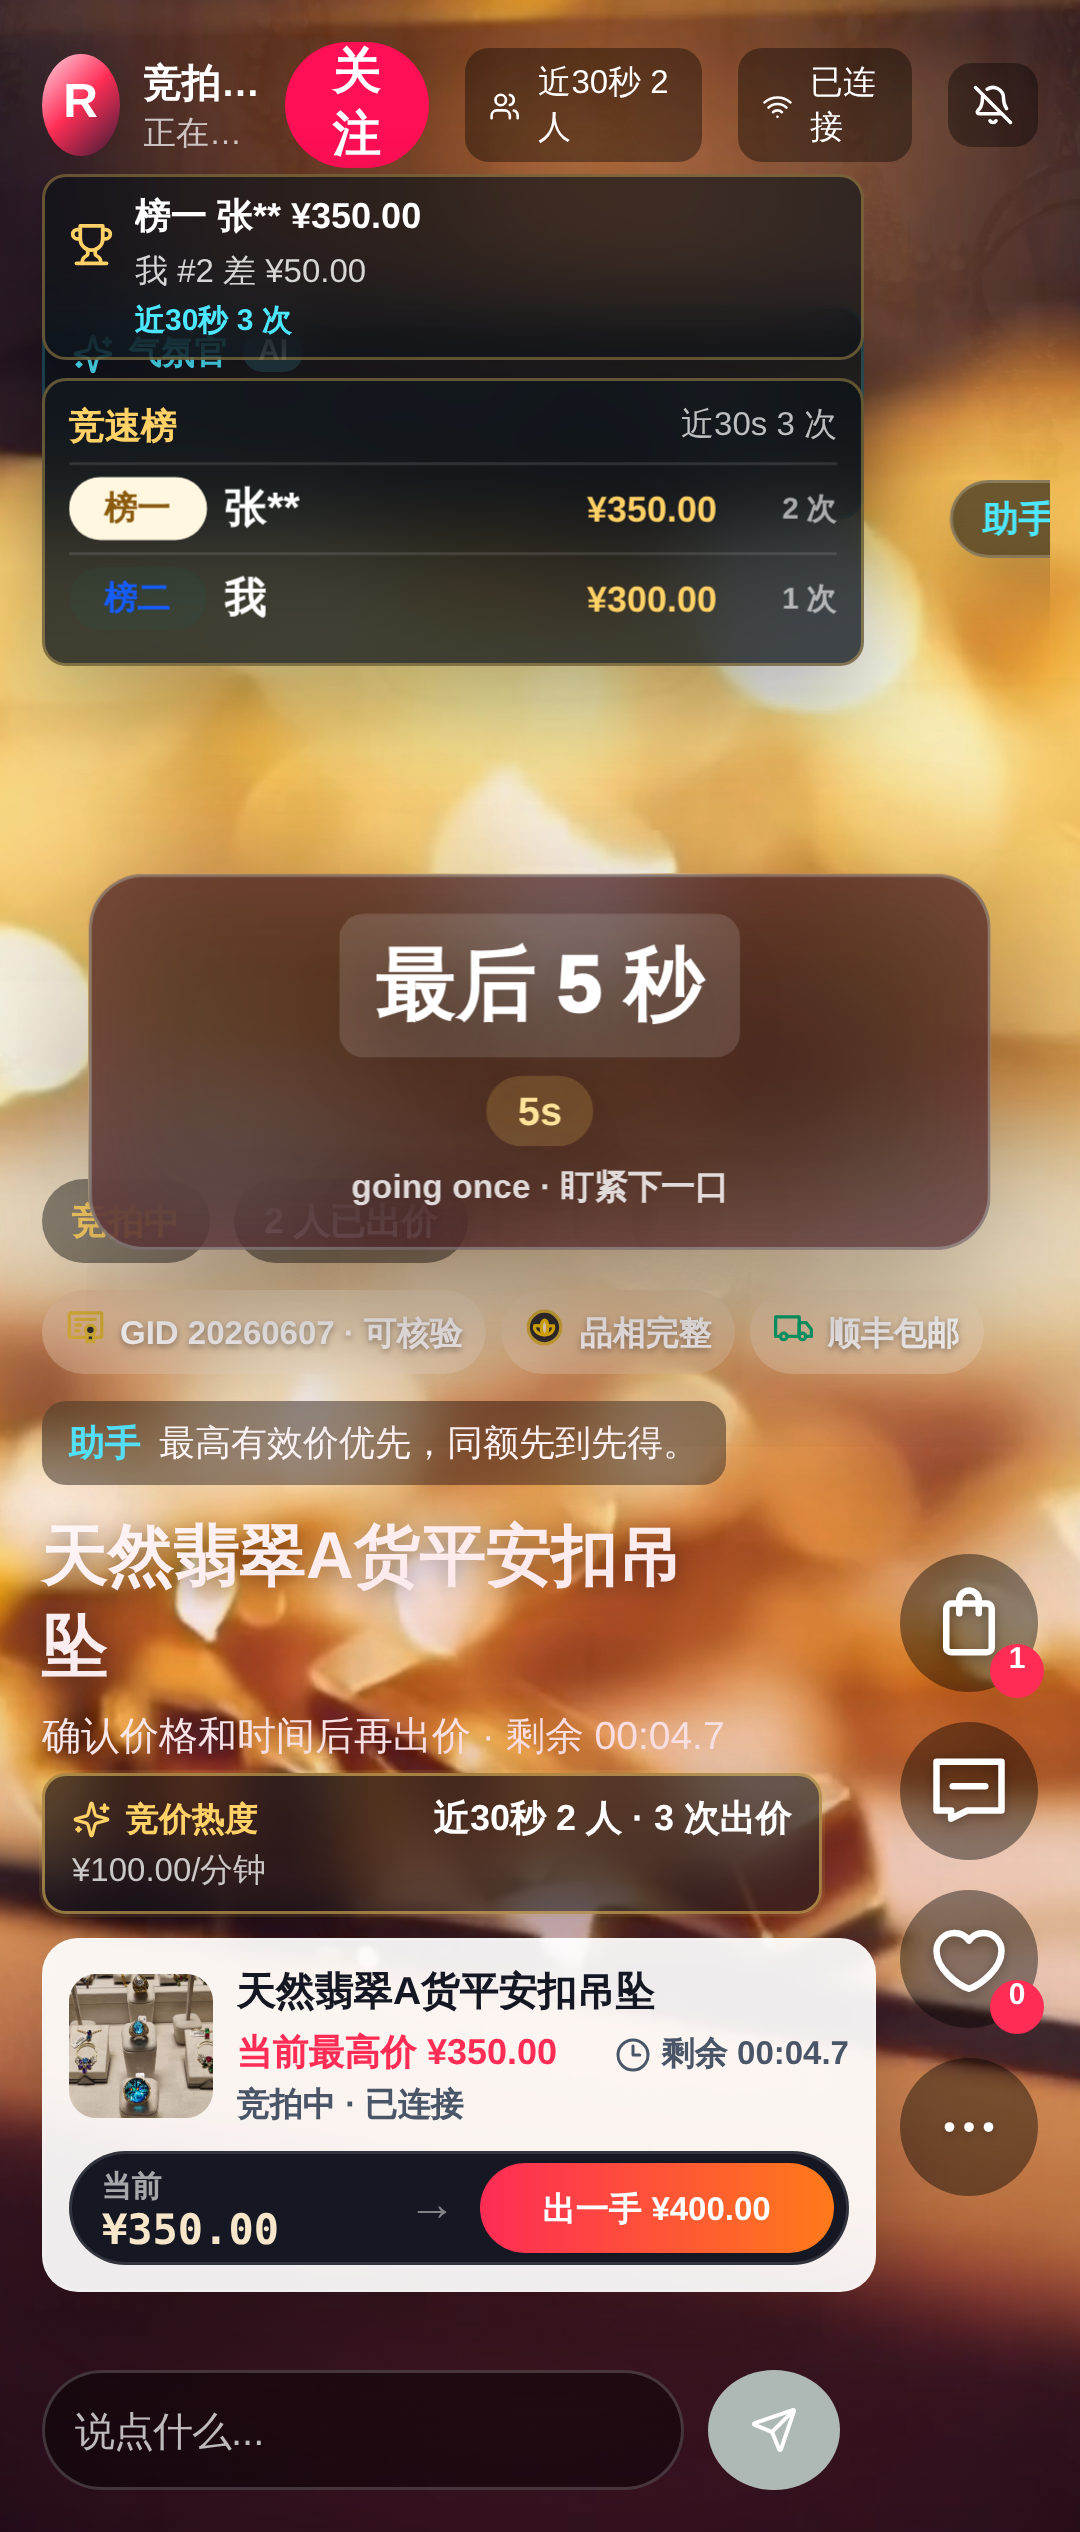
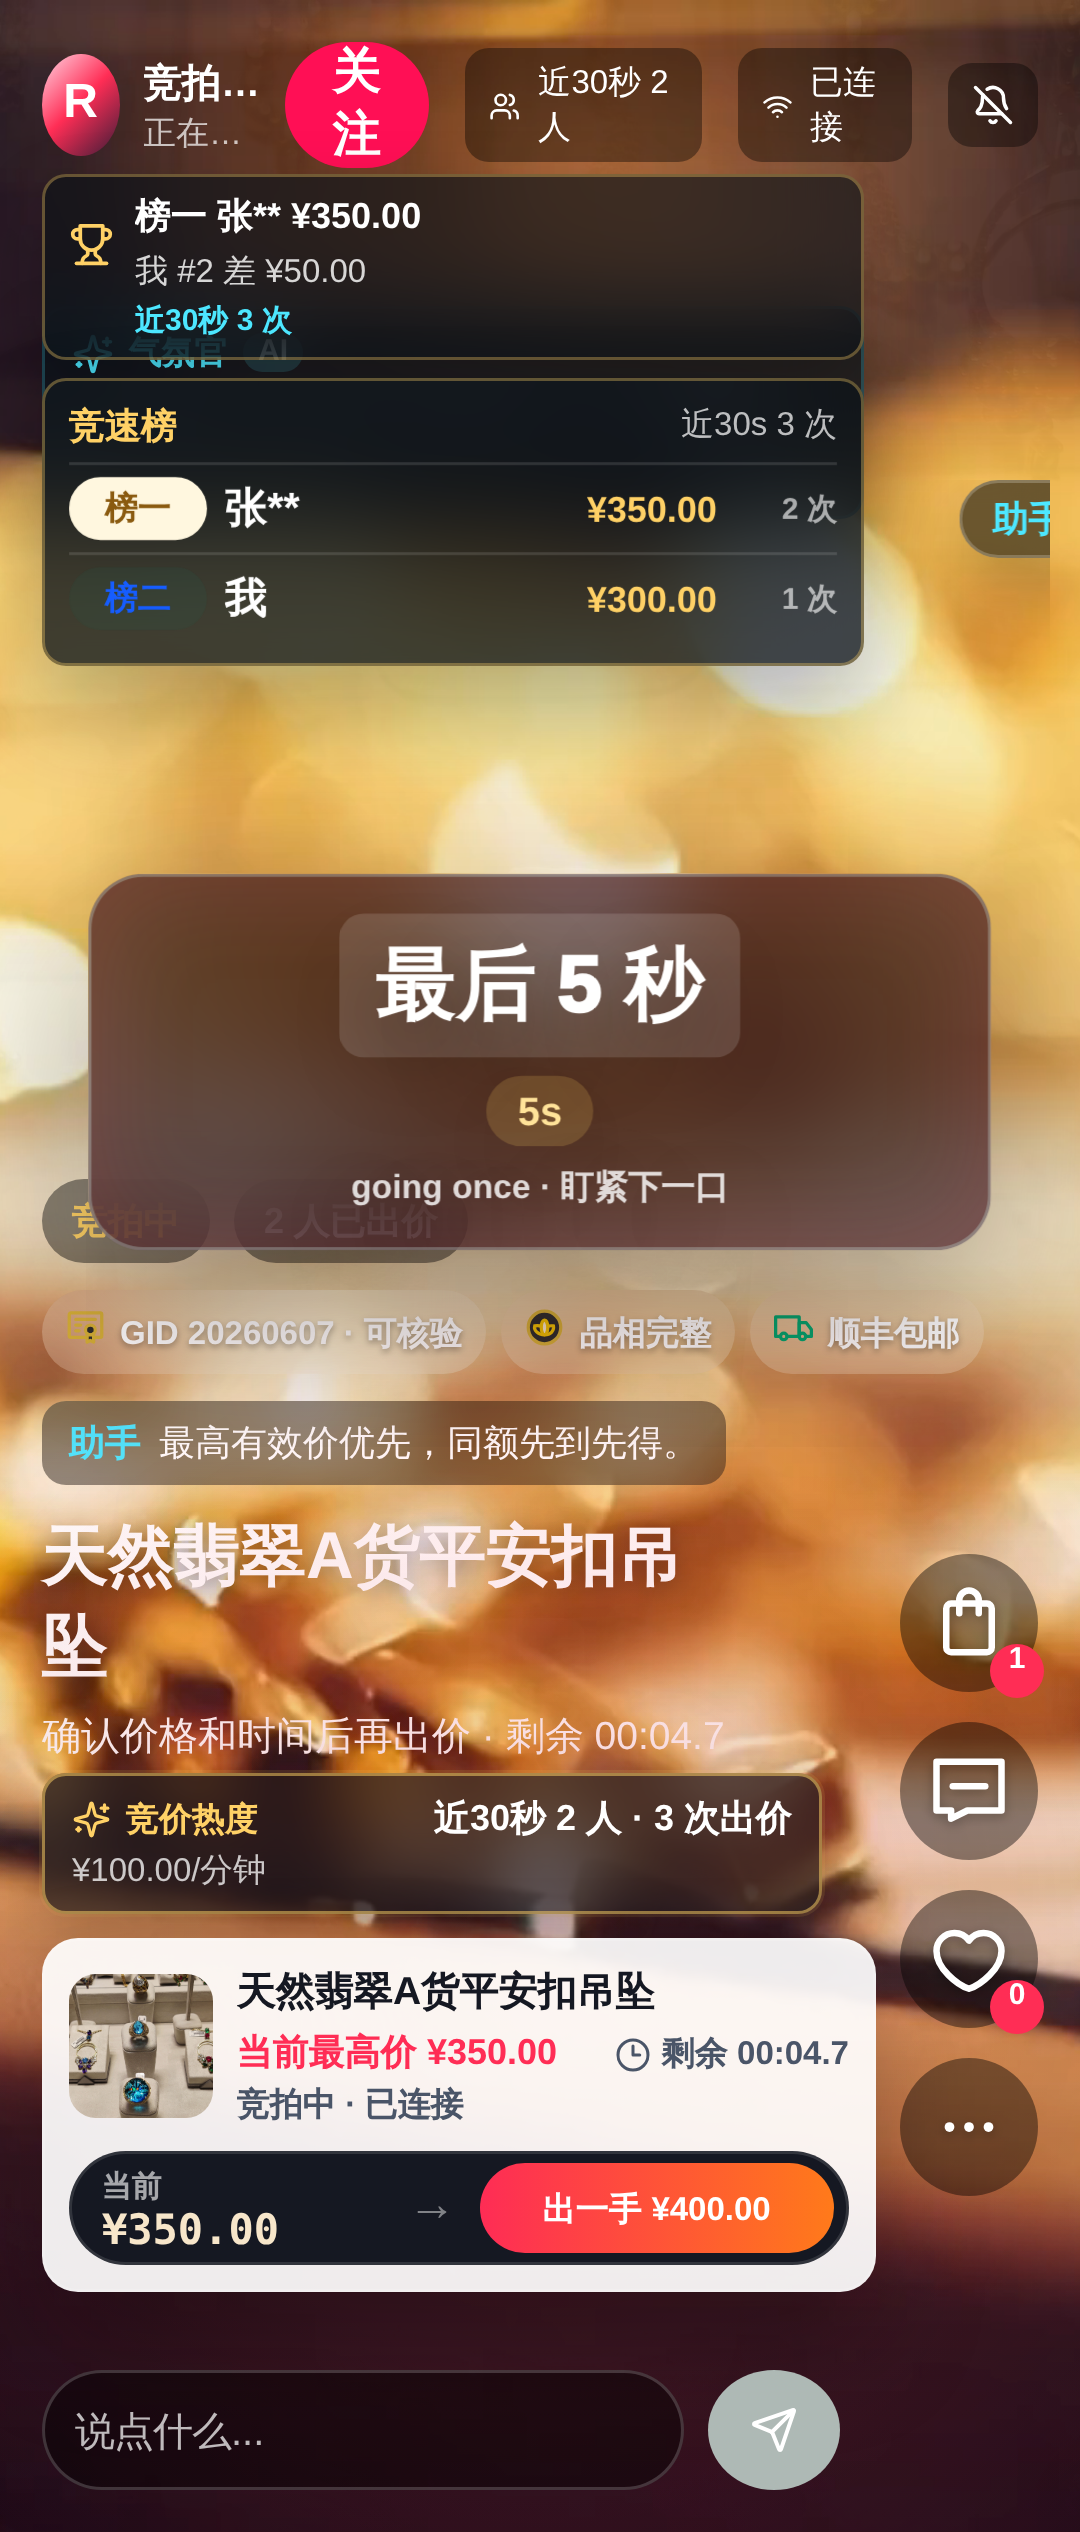
feat(h5): add winner climax result card

diff --git a/frontend/mobile-h5/src/components.tsx b/frontend/mobile-h5/src/components.tsx
@@ -662,6 +662,7 @@ export function AuctionStatePanel({
   countdownCopy,
   currentPriceCents,
   extensionNotice,
+  heat,
   item,
   leaderboard,
   minimumNextBidCents,
@@ -690,6 +691,7 @@ export function AuctionStatePanel({
   countdownCopy: string;
   currentPriceCents: number;
   extensionNotice: string;
+  heat: HeatSnapshot;
   item: AuctionItem;
   leaderboard: LeaderboardPayload | null;
   minimumNextBidCents: number;
@@ -736,8 +738,20 @@ export function AuctionStatePanel({
       ? '当前领先'
       : scenario.feedback;
   const rankAction = leaderboardActionCopy(leaderboard, nextBidCents);
+  const resultRankAction = scenario.sold
+    ? {
+      headline: scenario.winner ? '已中拍 · 订单待支付' : '本场已落槌',
+      action: scenario.winner ? '确认成交事实再支付' : '查看出价记录',
+      freshness: '结果以服务端终态为准'
+    }
+    : rankAction;
   const mediaURL = item.video_poster_url ?? item.videoPosterURL ?? item.image_url ?? item.imageURL ?? '';
   const bidHint = (() => {
+    if (scenario.sold) {
+      return scenario.winner
+        ? `成交价 ${scenario.price} · 订单以服务端为准`
+        : '本场已落槌，出价入口已关闭';
+    }
     if (scenario.title === '需完成验证') return scenario.feedback;
     if (scenario.ctaDisabled && !scenario.sold && scenario.leader.includes('你')) return h5Copy.selfLeading;
     if (unsafeAction && !scenario.sold) return h5Copy.confirmingPrice;
@@ -823,9 +837,9 @@ export function AuctionStatePanel({
         <strong>{rankCopy} · {gapCopy}</strong>
       </div>
       <div className="rank-strip" data-testid="rank-strip">
-        <span>{rankAction.headline}</span>
-        <strong>{rankAction.action}</strong>
-        <em>{rankAction.freshness}</em>
+        <span>{resultRankAction.headline}</span>
+        <strong>{resultRankAction.action}</strong>
+        <em>{resultRankAction.freshness}</em>
       </div>
       <div className="signal-row">
         {scenario.stale || connectionPhase === 'disconnected' ? <WifiOff size={16} /> : <Wifi size={16} />}
@@ -842,7 +856,7 @@ export function AuctionStatePanel({
       ) : null}
       <ResultSheet
         activeSheet={null}
-        heat={undefined}
+        heat={heat}
         item={item}
         kind={resultSheetKind}
         nextAuction={nextAuction}

diff --git a/frontend/mobile-h5/src/styles.css b/frontend/mobile-h5/src/styles.css
@@ -2368,6 +2368,7 @@ button {
 }
 
 .result-sheet.is-compact .result-actions {
+  grid-column: 1 / -1;
   grid-template-columns: minmax(0, 1fr) minmax(0, 1fr);
 }
 
@@ -2601,6 +2602,54 @@ button {
 .result-recap-actions b {
   color: rgba(255, 255, 255, .78);
   font-size: 12px;
+}
+
+.result-climax-card {
+  border: 1px solid rgba(255, 209, 102, .34);
+  border-radius: 14px;
+  padding: 12px;
+  background:
+    radial-gradient(circle at 18% 12%, rgba(255, 209, 102, .28), transparent 34%),
+    rgba(28, 22, 14, .56);
+  box-shadow: inset 0 0 28px rgba(255, 209, 102, .12);
+  display: grid;
+  gap: 4px;
+  text-align: center;
+}
+
+.result-climax-card span,
+.result-climax-card em {
+  color: rgba(255, 255, 255, .74);
+  font-size: 11px;
+  font-style: normal;
+  font-weight: 900;
+}
+
+.result-climax-card strong {
+  color: #ffe39a;
+  font-family: var(--font-auction-tabular);
+  font-size: 28px;
+  line-height: 1.1;
+}
+
+.result-climax-card p {
+  margin: 0;
+  color: rgba(255, 255, 255, .88);
+  font-size: 12px;
+}
+
+.result-sheet.is-compact .result-climax-card {
+  grid-column: 1 / -1;
+  border-color: rgba(212, 149, 34, .28);
+  background: #fff8e6;
+  box-shadow: none;
+}
+
+.result-sheet.is-compact .result-climax-card strong,
+.result-sheet.is-compact .result-climax-card p,
+.result-sheet.is-compact .result-climax-card span,
+.result-sheet.is-compact .result-climax-card em {
+  color: #7f4f05;
 }
 
 .result-sheet.is-compact .result-recap-actions button {

diff --git a/tests/e2e/mobile-h5.spec.ts b/tests/e2e/mobile-h5.spec.ts
@@ -1242,6 +1242,16 @@ test('H5 winner result sheet locks order and shares the single payment path', as
   await expect(sheet.getByText('成交价 ¥600.00')).toBeVisible();
   await expect(sheet.getByText(/订单 JP\d{8}-PENDING 已锁定/)).toBeVisible();
   await expect(sheet.getByText('保证金会随订单状态处理')).toBeVisible();
+  await expect(sheet.getByTestId('result-climax-card')).toContainText('落槌高光');
+  await expect(sheet.getByTestId('result-climax-card')).toContainText('¥600.00');
+  await expect(sheet.getByTestId('result-climax-card')).toContainText('2 人有效出价');
+  await expect(sheet.getByTestId('result-climax-card')).toContainText('3 次真实出价');
+  await expect(sheet.getByTestId('result-climax-card')).toContainText('先确认成交事实再进入支付');
+  await expect(page.getByTestId('rank-strip')).toContainText('已中拍 · 订单待支付');
+  await expect(page.getByTestId('rank-strip')).toContainText('确认成交事实再支付');
+  await expect(page.getByTestId('bid-hint')).toContainText('成交价 ¥600.00 · 订单以服务端为准');
+  await expect(page.getByTestId('rank-strip')).not.toContainText('下一口');
+  await expect(page.getByTestId('bid-hint')).not.toContainText('最低有效出价');
   await expect(page.getByTestId('bid-cta')).toHaveCount(1);
   await sheet.getByLabel('copy-result-recap').click();
   await expect(sheet.getByText('已复制')).toBeVisible();

diff --git a/frontend/mobile-h5/src/result.tsx b/frontend/mobile-h5/src/result.tsx
@@ -327,6 +327,14 @@ export function ResultSheet({
           </div>
         </div>
       ) : null}
+      {kind === 'winner' ? (
+        <div className="result-climax-card" data-testid="result-climax-card" aria-label="落槌高光">
+          <span>落槌高光</span>
+          <strong>{soldPrice}</strong>
+          <p>{Math.max(0, recapHeat.acceptedBidderCount)} 人有效出价 · {Math.max(0, recapHeat.totalAcceptedBids ?? recapHeat.acceptedBids30s)} 次真实出价</p>
+          <em>战绩卡已生成，先确认成交事实再进入支付</em>
+        </div>
+      ) : null}
       {kind !== 'winner' && nextAuction ? (
         <div className="next-auction-card" data-testid="next-auction-handoff">
           <span>直播间下一件</span>

diff --git a/frontend/mobile-h5/src/main.tsx b/frontend/mobile-h5/src/main.tsx
@@ -1879,6 +1879,7 @@ function App() {
           countdownCopy={countdownCopy}
           currentPriceCents={currentPriceCents}
           extensionNotice={extensionNotice}
+          heat={heat}
           item={stageItem}
           leaderboard={leaderboard}
           minimumNextBidCents={minimumNextBidCents}

diff --git a/docs/reviews/极致竞价氛围-3.0-2026-06-07/08-执行记录-2026-06-07.md b/docs/reviews/极致竞价氛围-3.0-2026-06-07/08-执行记录-2026-06-07.md
@@ -120,3 +120,49 @@
 - soft-close 层显示真实 `+Ns`，而不是当前固定 `+10s` 文案。
 - 落槌高潮：礼花/聚光/战绩卡先于支付的完整编排。
 - AI 激活：真 `API_KEY` 路径、模板降级路径、事实一致性抽查证据。
+
+## Round 4 · 落槌高光卡与终态文案修正
+
+本轮处理 `03` §D 的 winner 结果页入口，不把它包装成完整落槌高潮：
+
+- `frontend/mobile-h5/src/result.tsx` 在 winner `ResultSheet` 中新增 `result-climax-card`：
+  - 展示 `落槌高光`、成交价、真实有效出价人数与真实出价次数。
+  - 明确提示“战绩卡已生成，先确认成交事实再进入支付”，把支付前的高光/事实确认从普通账单中分离出来。
+- `frontend/mobile-h5/src/components.tsx` 修正 compact 结果页实际链路：
+  - `AuctionStatePanel` 不再把 `heat` 固定传 `undefined`，成交面板能继续读取同一份 `HeatSnapshot`。
+  - 成交后 `rank-strip` 与 `bid-hint` 不再显示“下一口/最低有效出价”，改为“已中拍 · 订单待支付 / 成交价 · 订单以服务端为准”，避免终态诱导继续出价。
+- `frontend/mobile-h5/src/styles.css` 新增高光卡样式，并修正 compact 结果按钮栅格，390px 截图中结果区按钮高度正常、无挤压。
+- `tests/e2e/mobile-h5.spec.ts` 扩展 winner 结果页 Playwright：
+  - 断言高光卡包含成交价、`2 人有效出价`、`3 次真实出价`。
+  - 断言成交终态不再出现“下一口/最低有效出价”类误导文案。
+- `capture-atmosphere.mjs` 新增 `11-winner-climax-card-390.png`：
+  - 先通过 WS `leaderboard_delta` 注入真实榜单/热度事实并等待页面显示。
+  - 再真实点击 state-matrix 的“成交”按钮进入结果态。
+  - 截图前断言高光卡包含非 0 的真实竞拍数字。
+
+### 验证
+
+- `pnpm --filter mobile-h5 build`：通过。
+- `npx playwright test tests/e2e/mobile-h5.spec.ts -g "winner result sheet" --reporter=line`：1 passed。
+- `node docs/reviews/极致竞价氛围-3.0-2026-06-07/capture-atmosphere.mjs`：通过，新增/复写：
+  - `evidence/11-winner-climax-card-390.png`
+- 人工目检 `11-winner-climax-card-390.png`：
+  - 高光卡显示 `2 人有效出价 · 3 次真实出价`，不是 0 值兜底。
+  - 成交后顶部行动条为订单确认语义，不再诱导下一口。
+  - 结果卡、分享按钮、高光卡、支付按钮在 390px 截图中无结构性重叠。
+
+### 对照评估
+
+| 文档项 | 本轮状态 | 说明 |
+|---|---|---|
+| `03` 落槌高潮 | **基础版完成** | 结果页已有支付前高光卡与真实事实展示；尚未实现 2.5s 全屏礼花/落锤音/赢家聚光序列。 |
+| `03` 战绩卡先于支付 | **入口完成** | 既有高光卡/短视频按钮保留，高光事实在支付 CTA 之前出现。 |
+| `03` 真实事实可追问 | **部分完成** | 竞拍人数/次数来自 `HeatSnapshot`/leaderboard；价格曲线、反超次数、engine_seq 回链仍未实现。 |
+| 终态产品安全 | **修正完成** | winner 终态不再显示“下一口/最低有效出价”误导文案。 |
+
+### 下一轮缺口
+
+- 真正的 `ClimaxLayer`：canvas-confetti `useWorker`、落锤音、聚光、约 2.5s 先于支付的完整编排。
+- 战绩卡事实深化：价格曲线、反超次数、击败人数与 `engine_seq`/订单可回链。
+- reduced-motion 下的落槌高光降级验收。
+- AI 激活：真 `API_KEY` 路径、模板降级路径、事实一致性抽查证据。
